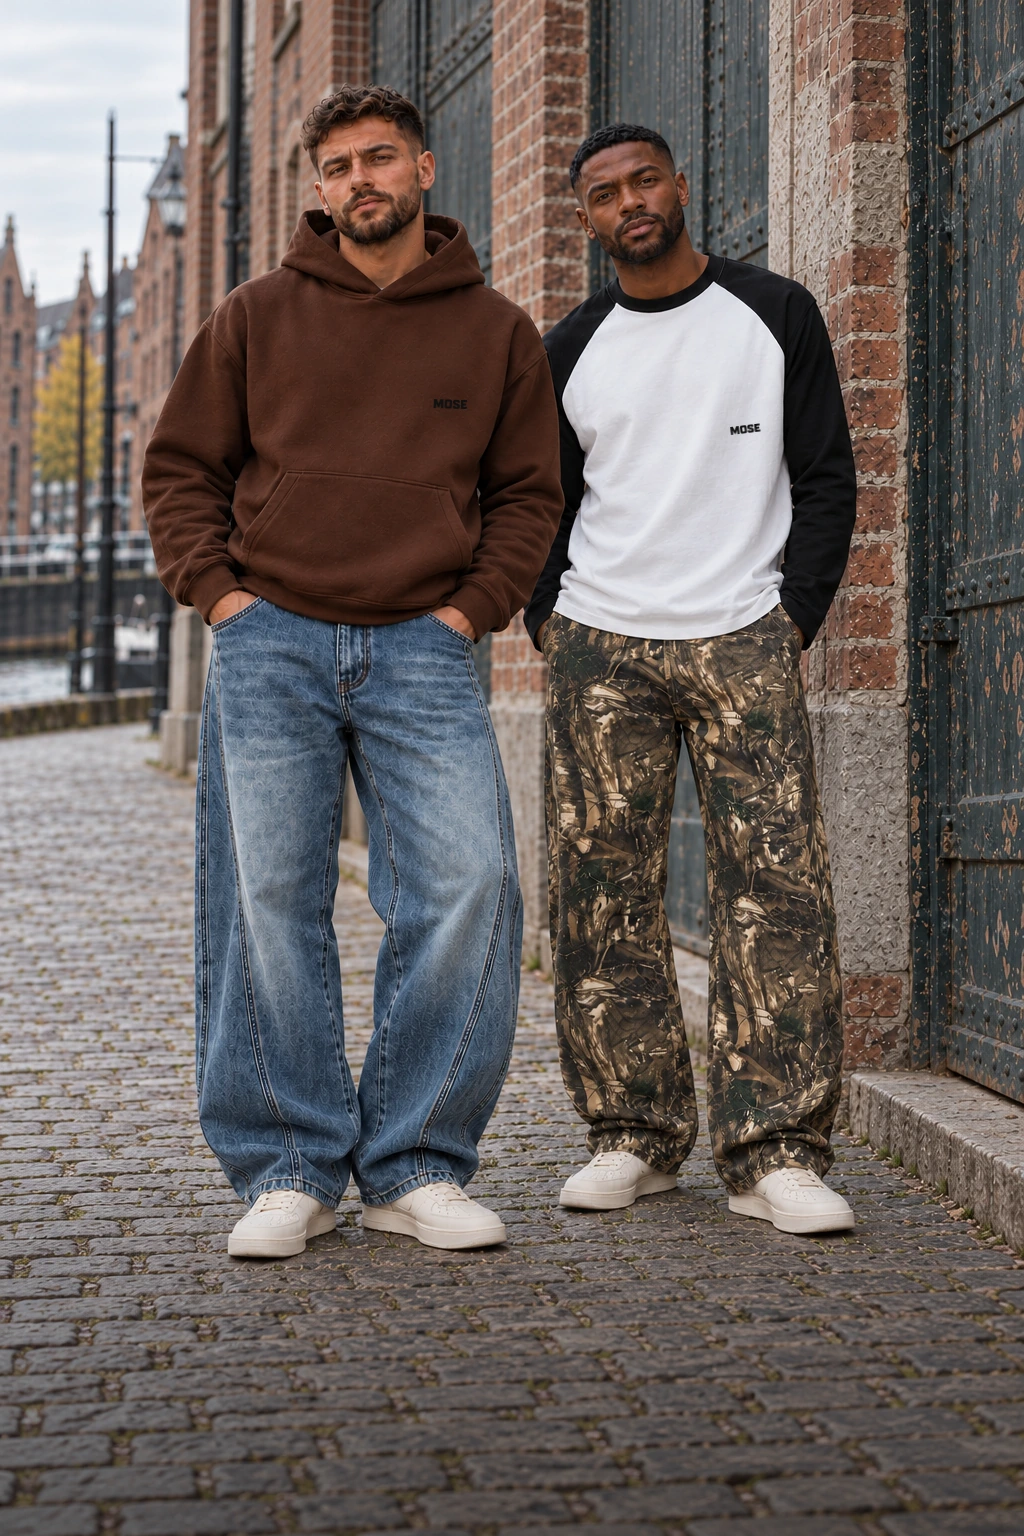
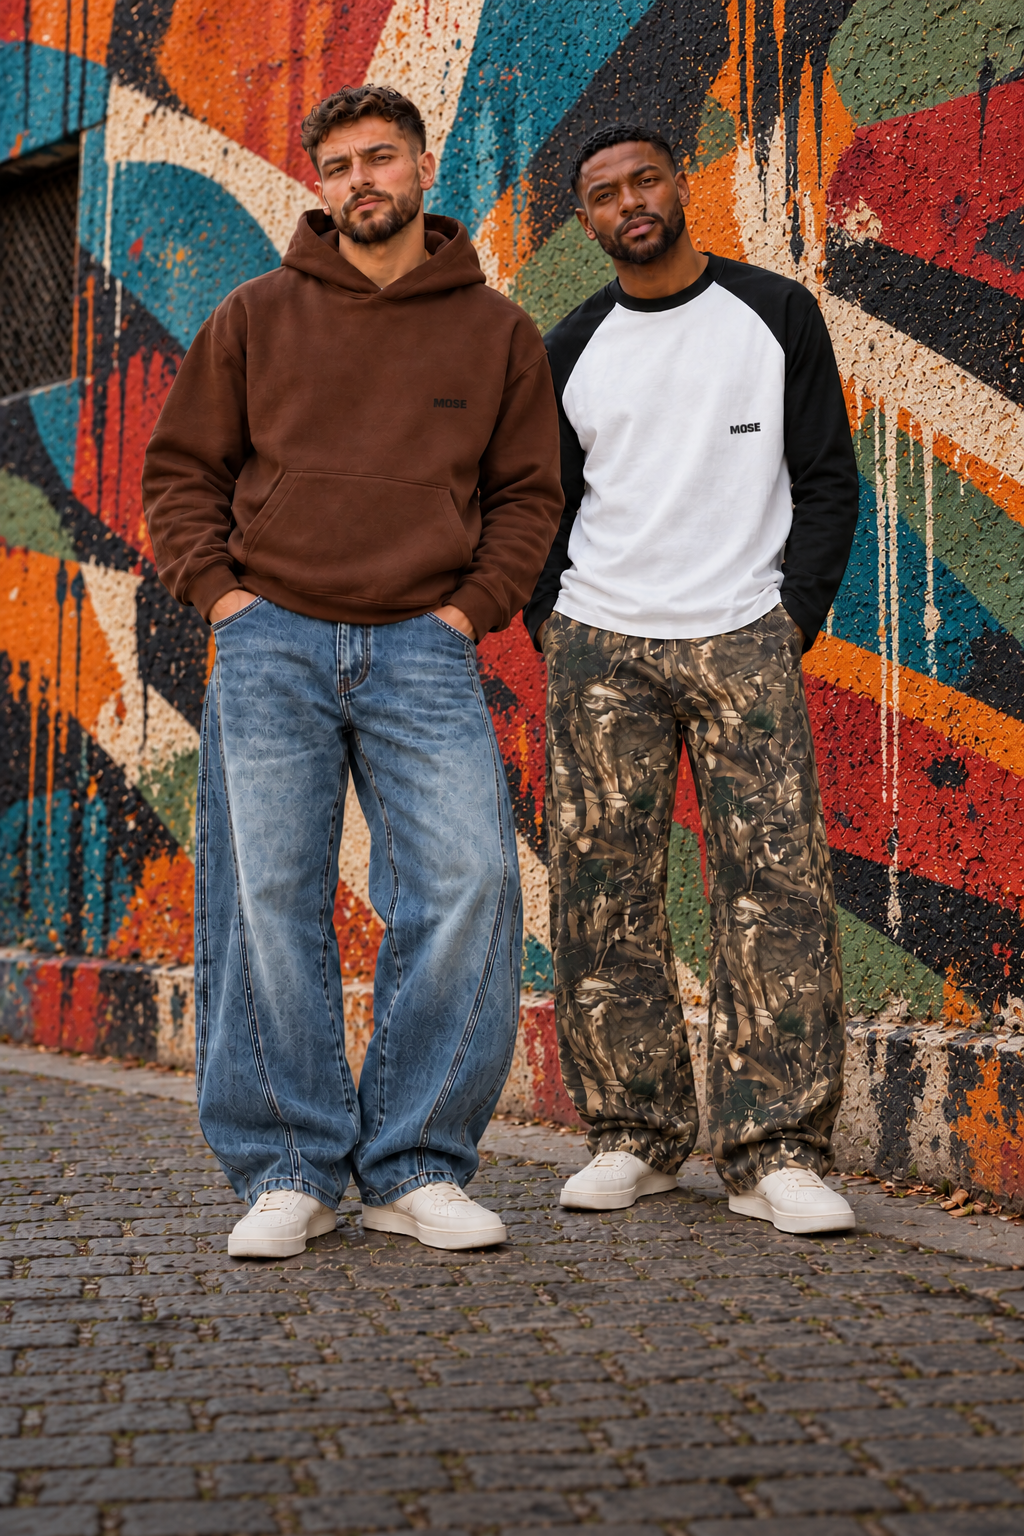
Keep MOSE customer copy private and refresh hero art (#47)
* Launch MOSE campaign hero and curate four menu clothing highlights

* Clean up header class formatting

* Keep supplier details private and refresh colorful hero

diff --git a/src/app/api/chat/route.ts b/src/app/api/chat/route.ts
@@ -2,7 +2,7 @@ import { streamText } from 'ai'
 import { openai } from '@ai-sdk/openai'
 import { createServiceRoleClient } from '@/lib/supabase/server'
 import { getSiteSettings } from '@/lib/settings'
-import { isTapstitchProduct, TAPSTITCH_PRODUCT_SOURCES } from '@/lib/tapstitch-products'
+import { isTapstitchProduct } from '@/lib/tapstitch-products'
 
 // Runtime config for streaming
 export const runtime = 'edge'
@@ -26,6 +26,8 @@ TONE OF VOICE:
 - Kort en to the point
 - Nederlands: informeel (je/jij)
 - Engels: casual but clear
+- Als de locale en is, antwoord volledig in het Engels. Als de locale nl is,
+  antwoord volledig in het Nederlands. Meng de talen nooit.
 
 EXPERTISE:
 - Het complete assortiment met actuele prijzen staat hieronder onder LIVE
@@ -34,10 +36,10 @@ EXPERTISE:
 - No-nonsense stijl (zonder poespas)
 - Materiaal, gewicht, certificering, pasvorm en herkomst verschillen per product.
   Gebruik uitsluitend de live productbeschrijving; vul ontbrekende feiten nooit aan.
-- Tapstitch-producten worden geleverd via onze productiepartner Tapstitch.
-  Pas hierop geen lokale productie-, voorraad-, afhaal- of leverbeloften toe.
-  Bezorgopties en verzendkosten worden voor deze producten bij het afrekenen getoond.
-  Algemene LIVE SETTINGS en SHIPPING CONTEXT gelden daarvoor niet als toezegging.
+- Noem nooit leveranciers, productiepartners, platforms of inkoopkanalen.
+  Noem nooit het woord Tapstitch. Klanten zien uitsluitend MOSE als merk.
+  Geef voor levering alleen aan dat bezorgopties en verzendkosten bij het
+  afrekenen worden getoond; doe geen uitspraken over interne voorraad of productie.
 
 OPMAAK:
 - Schrijf platte tekst. Geen markdown: geen sterretjes voor vet, geen koppen,
@@ -140,8 +142,6 @@ async function getProductDetails(productSlug: string, locale: 'nl' | 'en') {
     name,
     description,
     category: categoryName,
-    supplier: supplierFulfilled ? TAPSTITCH_PRODUCT_SOURCES[product.id] : null,
-    fulfillment: supplierFulfilled ? 'Tapstitch; delivery options and shipping costs shown at checkout; local stock and pickup unverified' : 'MOSE',
     price: `EUR ${formatEur(effectivePrice)}`,
     base_price: basePrice,
     sale_price: salePrice,
@@ -194,7 +194,7 @@ async function getCatalogSummary(locale: 'nl' | 'en') {
       const basis = Number(p.base_price || 0)
       const aanbieding = p.sale_price === null || p.sale_price === undefined ? null : Number(p.sale_price)
       const prijs = aanbieding !== null && aanbieding > 0 ? aanbieding : basis
-      return `${naam} (/product/${p.slug}): EUR ${formatEur(prijs)}${aanbieding !== null && aanbieding > 0 ? ` (was EUR ${formatEur(basis)})` : ''}${isTapstitchProduct(p) ? ' [Tapstitch: product-specific facts only; delivery and shipping costs at checkout]' : ''}`
+      return `${naam} (/product/${p.slug}): EUR ${formatEur(prijs)}${aanbieding !== null && aanbieding > 0 ? ` (was EUR ${formatEur(basis)})` : ''}`
     })
   } catch {
     return null

diff --git a/src/components/chat/ChatButton.tsx b/src/components/chat/ChatButton.tsx
@@ -38,6 +38,7 @@ export default function ChatButton() {
   const knopRef = useRef<HTMLButtonElement>(null)
 
   const opProductpagina = Boolean(pathname?.includes('/product/'))
+  const opHomepage = pathname === '/nl' || pathname === '/en' || pathname === '/nl/' || pathname === '/en/' || pathname === '/'
 
   // Eén MutationObserver voor alle drawer-detecties: één DOM-traversal
   // per mutatie i.p.v. drie aparte observers. Een gewijzigd attribute
@@ -240,7 +241,7 @@ export default function ChatButton() {
     <>
       {!shouldHideButton && (
         <div
-          className="fixed right-4 z-[9999] flex flex-col items-end gap-2 md:right-6"
+          className={`chat-floating fixed right-4 z-[9999] flex flex-col items-end gap-2 md:right-6 ${opHomepage ? 'chat-floating-home' : ''}`}
           style={{ bottom: onderMarge }}
         >
           {/* De tip, boven de knop. */}
@@ -301,7 +302,7 @@ export default function ChatButton() {
             className={`chat-knop group relative flex items-center justify-center rounded-full transition-transform duration-200 hover:scale-[1.04] focus-visible:outline-none focus-visible:ring-4 focus-visible:ring-black/70 focus-visible:ring-offset-2 ${
               isOpen
                 ? 'hidden h-14 w-14 bg-black text-brand-primary md:flex'
-                : 'h-[60px] w-[60px] bg-brand-primary text-black md:h-14 md:w-auto md:gap-2.5 md:px-6'
+                : 'h-[60px] w-[60px] bg-brand-primary text-white md:h-14 md:w-auto md:gap-2.5 md:px-6'
             } ${!isOpen && magPulseren ? 'chat-knop-pulse' : ''}`}
             aria-label={isOpen ? t('close') : t('launcher')}
             aria-expanded={isOpen}
@@ -342,6 +343,16 @@ export default function ChatButton() {
             0 0 0 2px #ffffff,
             0 14px 32px rgba(0, 0, 0, 0.26),
             0 4px 10px rgba(0, 0, 0, 0.14);
+        }
+
+        /* Keep the launcher clear of the two primary hero actions on mobile. */
+        .chat-floating-home {
+          bottom: calc(6.5rem + max(var(--cookie-consent-height, 0px), var(--chat-underbar-height, 0px))) !important;
+        }
+        @media (min-width: 768px) {
+          .chat-floating-home {
+            bottom: calc(1.5rem + max(var(--cookie-consent-height, 0px), var(--chat-underbar-height, 0px))) !important;
+          }
         }
 
         @keyframes chat-halo {

diff --git a/src/components/product/PdpFaq.tsx b/src/components/product/PdpFaq.tsx
@@ -38,12 +38,12 @@ export default function PdpFaq({
   const items = supplierFulfilled ? (locale === 'en' ? [
     { question: 'How does this model fit?', answer: 'Use the model-specific size chart and product description. Compare the garment measurements with a similar item you already own.' },
     { question: 'When will my order arrive?', answer: 'Delivery options and shipping costs are shown at checkout. Items fulfilled by different partners may arrive separately.' },
-    { question: 'Who fulfils this product?', answer: 'This item is supplied through our production partner Tapstitch.' },
+    { question: 'What makes this model different?', answer: 'See the product description for the fit, fabric and details selected for this MOSE model.' },
     { question: 'What if the size does not fit?', answer: 'See our returns policy or contact MOSE for help with your return.' },
   ] : [
     { question: 'Hoe valt dit model?', answer: 'Gebruik de maattabel en beschrijving van dit specifieke model. Vergelijk de kledingmaten met een vergelijkbaar kledingstuk dat je al hebt.' },
     { question: 'Wanneer ontvang ik mijn bestelling?', answer: 'Bezorgopties en verzendkosten staan bij het afrekenen. Artikelen van verschillende partners kunnen afzonderlijk aankomen.' },
-    { question: 'Wie levert dit product?', answer: 'Dit artikel leveren we via onze productiepartner Tapstitch.' },
+    { question: 'Wat maakt dit model bijzonder?', answer: 'Bekijk de productbeschrijving voor de pasvorm, stof en details van dit MOSE-model.' },
     { question: 'Wat als de maat niet past?', answer: 'Bekijk ons retourbeleid of neem contact op met MOSE voor hulp bij je retour.' },
   ]) : (t.raw('items') as Array<{ question: string; answer: string }>) || []
   if (!items.length) return null

diff --git a/src/components/product/StickyVariantPicker.tsx b/src/components/product/StickyVariantPicker.tsx
@@ -22,7 +22,7 @@ import { ShoppingCart } from 'lucide-react'
 import { useTranslations, useLocale } from 'next-intl'
 import { usePathname } from 'next/navigation'
 import { useCartDrawer } from '@/store/cartDrawer'
-import { availableVariant, isMadeToOrderAvailable, type VariantAvailability } from '@/lib/variant-availability'
+import { availableVariant, type VariantAvailability } from '@/lib/variant-availability'
 import { formatPrice } from '@/lib/format-price'
 
 interface AvailableColor {
@@ -173,8 +173,6 @@ export default function StickyVariantPicker({
     return map
   }, [availableColors, variants])
 
-  const selectedMadeToOrder = variants.some(v => v.color === selectedColor && v.size === selectedSize && isMadeToOrderAvailable(v))
-  const madeToOrderLabel = locale === 'en' ? 'Made to order' : 'Op bestelling gemaakt'
 
   const ctaState: 'pickColor' | 'pickSize' | 'oos' | 'add' | 'adding' = (() => {
     if (isAdding) return 'adding'
@@ -291,7 +289,6 @@ export default function StickyVariantPicker({
             : 'translate-y-full opacity-0 pointer-events-none'
         }`}
       >
-        {selectedMadeToOrder && <p className="px-4 pt-2 text-center text-xs font-semibold uppercase tracking-wide">{madeToOrderLabel}</p>}
         <StickyContent
           variant="desktop"
           availableColors={availableColors}
@@ -328,7 +325,6 @@ export default function StickyVariantPicker({
             : 'translate-y-full opacity-0 pointer-events-none'
         }`}
       >
-        {selectedMadeToOrder && <p className="px-4 pt-2 text-center text-xs font-semibold uppercase tracking-wide">{madeToOrderLabel}</p>}
         <StickyMobileTwoRow
           availableColors={availableColors}
           availableSizes={availableSizes}

diff --git a/src/app/[locale]/product/[slug]/ProductPageClient.tsx b/src/app/[locale]/product/[slug]/ProductPageClient.tsx
@@ -1159,7 +1159,7 @@ export default function ProductPage({ params, instagramSlot, initialProduct, ini
 
   const supplierFulfilled = isTapstitchProduct(product)
   const supplierDelivery = locale === 'en' ? 'Delivery options and shipping costs are shown at checkout.' : 'Bezorgopties en verzendkosten staan bij het afrekenen.'
-  const supplierOrigin = locale === 'en' ? 'Fulfilled by our production partner Tapstitch.' : 'Geleverd via onze productiepartner Tapstitch.'
+  const supplierOrigin = locale === 'en' ? 'MOSE quality checked and ready to wear.' : 'Door MOSE geselecteerd en klaar om te dragen.'
 
   if (product.is_gift_card) {
     return (
@@ -1696,7 +1696,6 @@ export default function ProductPage({ params, instagramSlot, initialProduct, ini
               </div>
 
               {/* AVAILABILITY & TRUST - Desktop */}
-              {madeToOrder && <p role="status" className="border-2 border-black px-4 py-3 text-sm font-bold uppercase tracking-wide">{locale === 'en' ? 'Made to order' : 'Op bestelling gemaakt'}</p>}
               {selectedVariant && !isPresale && !madeToOrder && (
                 <div className="hidden md:block border-2 border-black">
                   <div className={`px-4 py-3 flex items-center justify-between ${

diff --git a/tests/catalog-performance.test.tsx b/tests/catalog-performance.test.tsx
@@ -101,7 +101,7 @@ it('renders a fresh made-to-order PDP with enabled size/CTA and truthful stock c
     initialProduct={{id:'2307a99e-781a-8f4a-9da0-2374d3cb464f',name:'Boxy Fleece Hoodie',slug:'boxy-fleece-hoodie',description:'Heavy fleece',base_price:79,sale_price:null,category_id:null,categories:null,meta_title:'',meta_description:'',product_images:[{id:'image',url:'/pod.webp',alt_text:'Hoodie',position:0,is_primary:true,color:null,media_type:'image'}],product_variants:[{...variant,...override}]}}
   /></NextIntlClientProvider>)
   const document = new DOMParser().parseFromString(view(), 'text/html')
-  expect(document.body.textContent).toContain('Op bestelling gemaakt')
+  expect(document.body.textContent).not.toContain('Op bestelling gemaakt')
   expect(document.querySelector('[data-pdp-main-atc]')?.hasAttribute('disabled')).toBe(false)
   expect(document.body.textContent).not.toMatch(/Nog \d+ op voorraad|Op voorraad/)
   for (const override of [{supplier_checked_at:'2026-01-01T00:00:00Z'},{is_available:false},{supplier_orderable:false}]) {

diff --git a/src/components/product/PdpTrustStrip.tsx b/src/components/product/PdpTrustStrip.tsx
@@ -56,7 +56,7 @@ export default function PdpTrustStrip({ signatureSpecs, freeShippingThreshold, s
 
   const lines = supplierFulfilled ? [
     locale === 'en' ? 'Delivery options and shipping costs are shown at checkout.' : 'Bezorgopties en verzendkosten staan bij het afrekenen.',
-    locale === 'en' ? 'Fulfilled by our production partner Tapstitch.' : 'Geleverd via onze productiepartner Tapstitch.',
+    locale === 'en' ? 'MOSE quality checked and ready to wear.' : 'Door MOSE geselecteerd en klaar om te dragen.',
     locale === 'en' ? 'Check the size chart for this specific model.' : 'Bekijk de maattabel van dit specifieke model.',
     locale === 'en' ? 'Secure payment at checkout.' : 'Veilig betalen bij het afrekenen.',
   ] : [

diff --git a/tests/supplier-product-copy.test.tsx b/tests/supplier-product-copy.test.tsx
@@ -12,9 +12,9 @@ function render(supplierFulfilled: boolean) {
   </NextIntlClientProvider>)
 }
 describe('supplier fulfilment promises', () => {
-  it('does not reuse local manufacturing, shipping cutoff, fit or warranty claims for Tapstitch', () => {
+  it('keeps supplier and internal production details private', () => {
     const html = render(true)
-    expect(html).toContain('Tapstitch')
+    expect(html).not.toMatch(/Tapstitch|productiepartner|production partner|fulfilled by/i)
     expect(html).toContain('Bezorgopties en verzendkosten staan bij het afrekenen')
     expect(html).toContain('dit specifieke model')
     expect(html).not.toMatch(/overmorgen|DHL|regular fit|fabrieksgarantie|Made in Groningen|MADE IN GRONINGEN/)

diff --git a/tests/made-to-order-sticky.test.tsx b/tests/made-to-order-sticky.test.tsx
@@ -15,7 +15,7 @@ describe('sticky made-to-order selection', () => {
     const sizes = [...doc.querySelectorAll('button')].filter(button=>button.textContent==='M')
     expect(sizes.length).toBeGreaterThan(0)
     expect(sizes.every(button=>!button.hasAttribute('disabled'))).toBe(true)
-    expect(doc.body.textContent).toContain('Op bestelling gemaakt')
+    expect(doc.body.textContent).not.toContain('Op bestelling gemaakt')
   })
   it('does not enable a disabled or stale supplier size, or disabled presale stock', () => {
     for (const variant of [{is_available:false},{supplier_checked_at:'2026-01-01T00:00:00Z'},{fulfillment_mode:'local_stock',presale_stock_quantity:10,presale_enabled:false}]) {

diff --git a/tests/api/chat-product-facts.test.ts b/tests/api/chat-product-facts.test.ts
@@ -26,7 +26,7 @@ describe('chat product facts', () => {
     expect(response.status).toBe(200)
     const system = mocks.stream.mock.calls[0][0].system as string
     expect(system).toContain('42% cotton; boxy fit')
-    expect(system).toContain('Tapstitch: product-specific facts only')
+    expect(system).toContain('Noem nooit het woord Tapstitch')
     expect(system).not.toMatch(/300 GSM|OEKO-Tex|Made in Groningen|regular fit|legacy sizing/)
     const context = JSON.parse(system.split('PRODUCT CONTEXT (read-only JSON):\n')[1])
     expect(context).toMatchObject({ stock: null, materials_care: null, size_guide: null, size_guide_type: null, product_details: '42% cotton; boxy fit' })

diff --git a/src/app/[locale]/cart/page.tsx b/src/app/[locale]/cart/page.tsx
@@ -371,7 +371,6 @@ export default function CartPage() {
                               </p>
                             )}
 
-                            {item.isMadeToOrder && <p className="mt-2 text-xs font-semibold uppercase tracking-wide">{locale === 'en' ? 'Made to order' : 'Op bestelling gemaakt'}</p>}
                             {bijnaOp && (
                               <p className="mt-2 text-xs font-semibold uppercase tracking-wider text-brand-primary">
                                 {max === 1 ? t('lastOne') : t('onlyLeft', { count: max })}

diff --git a/src/components/CartDrawer.tsx b/src/components/CartDrawer.tsx
@@ -764,7 +764,6 @@ export default function CartDrawer({ isOpen, onClose }: CartDrawerProps) {
                             )}
                           </div>
 
-                          {item.isMadeToOrder && <p className="mt-2 text-xs font-semibold uppercase tracking-wide">{locale === 'en' ? 'Made to order' : 'Op bestelling gemaakt'}</p>}
                           {/* Bottom Section - Quantity & Price */}
                           <div className="flex items-center justify-between mt-3">
                             {/* Quantity Controls */}
